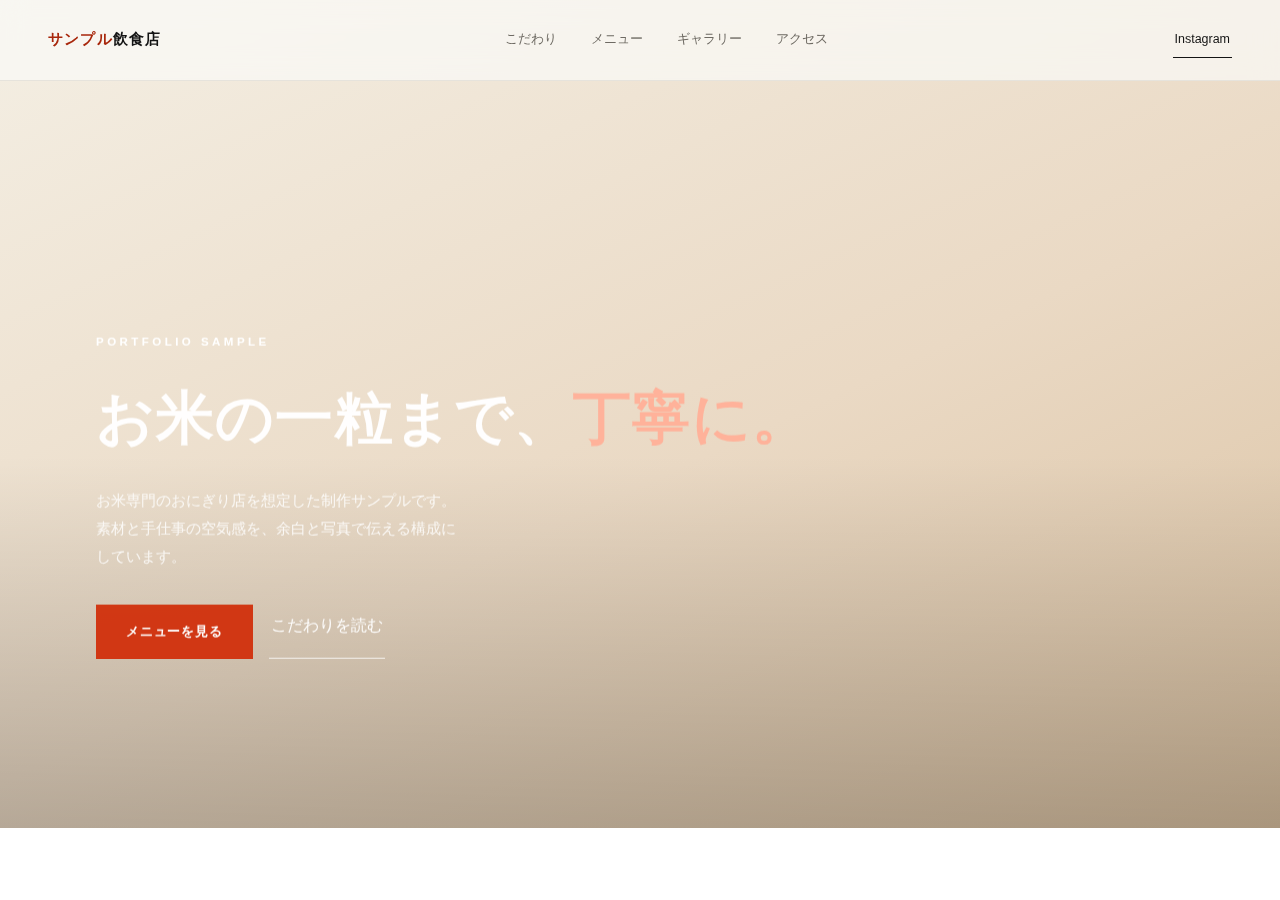
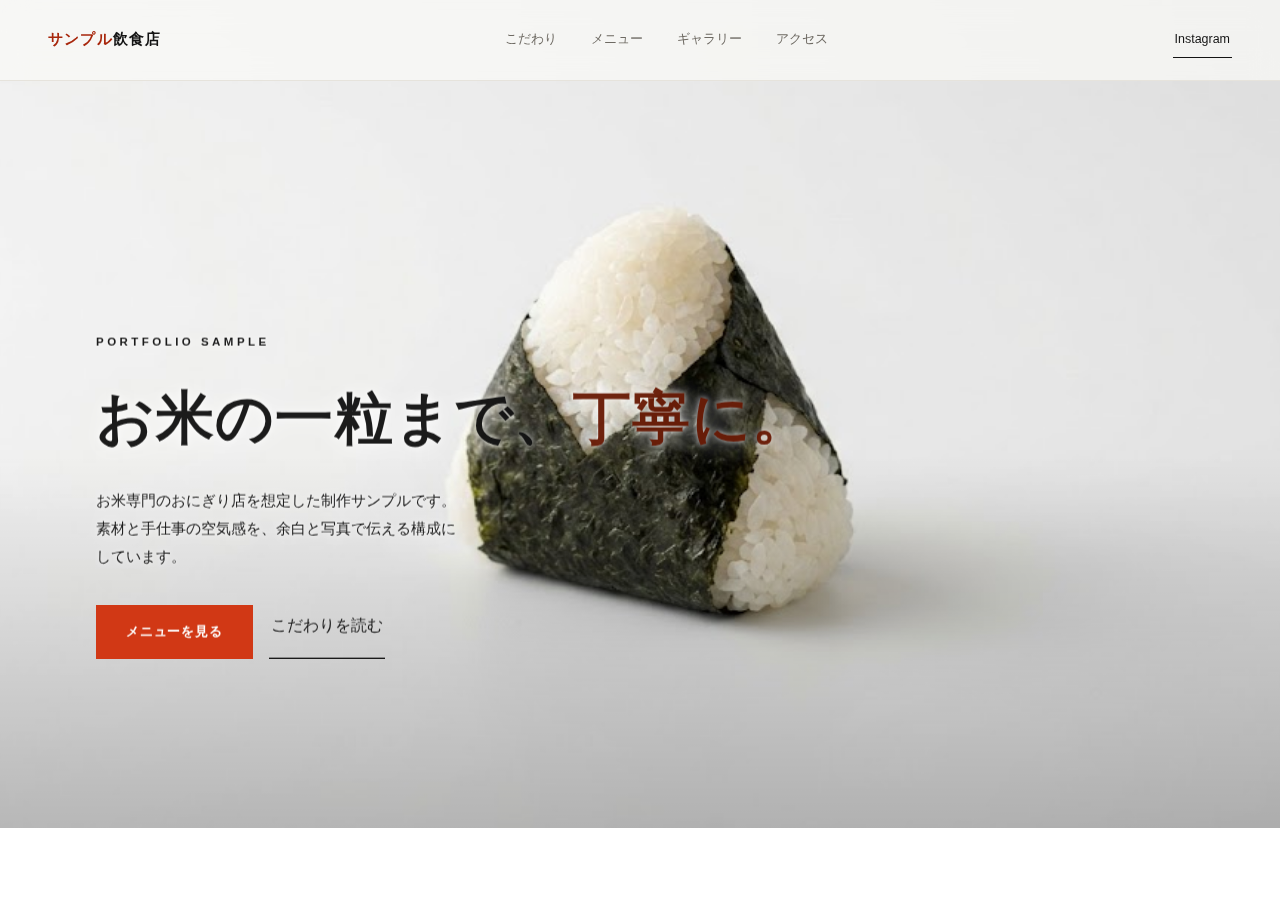
Add real onigiri sample photos; fix hero text contrast

diff --git a/demo-onigiri/index.html b/demo-onigiri/index.html
@@ -65,11 +65,13 @@
   .hero{position:relative;height:92vh;min-height:560px;margin-top:0;}
   .hero .ph{position:absolute;inset:0;border-radius:0;}
   .hero-inner{position:relative;z-index:2;height:100%;display:flex;flex-direction:column;justify-content:flex-end;padding:0 48px 70px;max-width:900px;}
-  .eyebrow{font-size:.72rem;letter-spacing:.3em;color:#fff;font-weight:700;margin-bottom:22px;text-transform:uppercase;opacity:.92;}
-  .hero-text-bg{display:inline-block;background:var(--ink);padding:6px 4px;box-decoration-break:clone;-webkit-box-decoration-break:clone;}
-  .hero h1{font-size:clamp(2.1rem,4.6vw,3.6rem);font-weight:800;line-height:1.5;color:#fff;letter-spacing:.02em;}
-  .hero h1 .shu{color:#ffb199;}
-  .hero p{color:rgba(255,255,255,.86);max-width:44ch;margin-top:26px;font-size:.94rem;}
+  .eyebrow{font-size:.72rem;letter-spacing:.3em;font-weight:700;margin-bottom:22px;text-transform:uppercase;}
+  .hero .eyebrow{color:var(--ink);text-shadow:0 1px 14px rgba(255,255,255,.9),0 0 3px rgba(255,255,255,.9);}
+  .hero h1{font-size:clamp(2.1rem,4.6vw,3.6rem);font-weight:800;line-height:1.5;color:var(--ink);letter-spacing:.02em;text-shadow:0 2px 24px rgba(255,255,255,.85),0 0 6px rgba(255,255,255,.85);}
+  .hero h1 .shu{color:var(--shu-deep);}
+  .hero p{color:var(--ink);max-width:44ch;margin-top:26px;font-size:.94rem;font-weight:500;text-shadow:0 1px 18px rgba(255,255,255,.9),0 0 4px rgba(255,255,255,.9);}
+  .hero-ghost{color:var(--ink);border-color:var(--ink);}
+  .hero-ghost:hover{background:var(--ink);color:#fff;}
   .hero-cta{display:flex;gap:16px;flex-wrap:wrap;margin-top:34px;}
 
   section{padding:100px 48px;}
@@ -169,7 +171,7 @@
     <p data-reveal>お米専門のおにぎり店を想定した制作サンプルです。素材と手仕事の空気感を、余白と写真で伝える構成にしています。</p>
     <div class="hero-cta" data-reveal>
       <a href="#menu" class="btn btn-solid">メニューを見る</a>
-      <a href="#about" class="btn-line" style="color:#fff;border-color:rgba(255,255,255,.6);">こだわりを読む</a>
+      <a href="#about" class="btn-line hero-ghost">こだわりを読む</a>
     </div>
   </div>
 </section>
